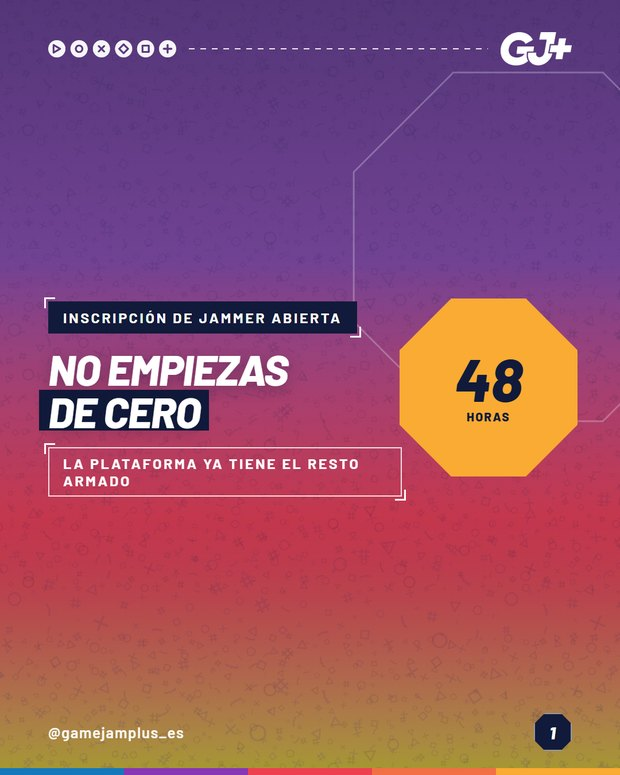
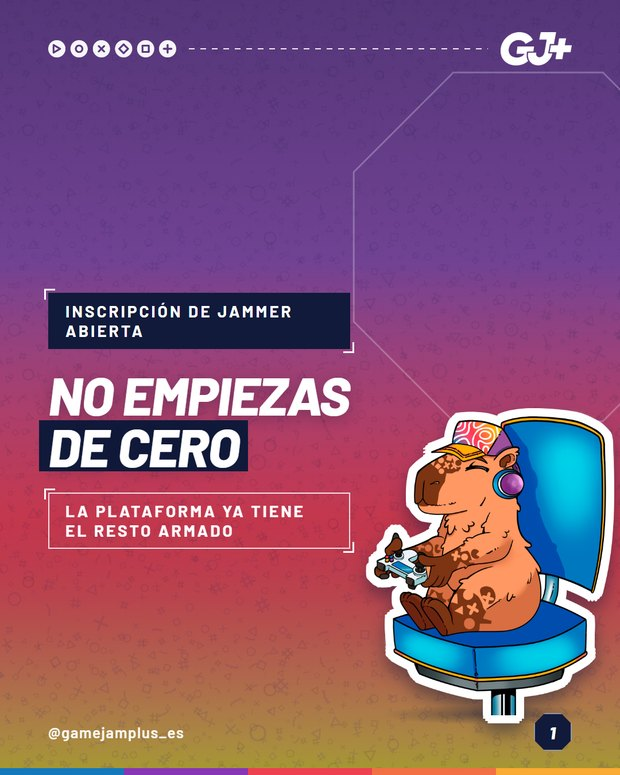
O25: capa com mascote, sem numeral
O 0 e o selo de 48 horas foram reprovados, e com razao: nenhum dos dois diz
nada neste post, que nao tem metrica propria pra capa. A capa passa a usar o
bloco "capa" com mascote, que e o padrao desde 16/set, com a manchete em cap
(cap longa no EN, onde "from scratch" quebra sozinho).

Changed region(s): [[0.0613, 0.3716, 1.0, 0.96]]

diff --git a/index.html b/index.html
@@ -293,7 +293,7 @@ dialog img{width:min(92vw,620px);max-height:92dvh;object-fit:contain;border-radi
 <article class="c" data-cat="01-conteudos-gj" data-lang="PT" data-busca="o25 - voce nao comeca do zero gj+" id="c230">
   <header><div><span class="tagcat">GJ+</span><span class="taglang PT">PT</span><h2>O25 - Voce nao comeca do zero</h2></div>
   <div class="nav"><button aria-label="Anterior" data-d="-1">&#8592;</button><button aria-label="Pr&#243;ximo" data-d="1">&#8594;</button><span class="cont">7</span></div></header>
-  <div class="strip"><figure><img src="img/01-conteudos-gj-pt-o25-o-que-a-sua-sede-recebe-pronta/slide_01.jpg?v=6" alt="O25 - Voce nao comeca do zero 1" width="620" height="775" loading="lazy" decoding="async"><figcaption>01</figcaption></figure><figure><img src="img/01-conteudos-gj-pt-o25-o-que-a-sua-sede-recebe-pronta/slide_02.jpg?v=6" alt="O25 - Voce nao comeca do zero 2" width="620" height="775" loading="lazy" decoding="async"><figcaption>02</figcaption></figure><figure><img src="img/01-conteudos-gj-pt-o25-o-que-a-sua-sede-recebe-pronta/slide_03.jpg?v=6" alt="O25 - Voce nao comeca do zero 3" width="620" height="775" loading="lazy" decoding="async"><figcaption>03</figcaption></figure><figure><img src="img/01-conteudos-gj-pt-o25-o-que-a-sua-sede-recebe-pronta/slide_04.jpg?v=6" alt="O25 - Voce nao comeca do zero 4" width="620" height="775" loading="lazy" decoding="async"><figcaption>04</figcaption></figure><figure><img src="img/01-conteudos-gj-pt-o25-o-que-a-sua-sede-recebe-pronta/slide_05.jpg?v=6" alt="O25 - Voce nao comeca do zero 5" width="620" height="775" loading="lazy" decoding="async"><figcaption>05</figcaption></figure><figure><img src="img/01-conteudos-gj-pt-o25-o-que-a-sua-sede-recebe-pronta/slide_06.jpg?v=6" alt="O25 - Voce nao comeca do zero 6" width="620" height="775" loading="lazy" decoding="async"><figcaption>06</figcaption></figure><figure><img src="img/01-conteudos-gj-pt-o25-o-que-a-sua-sede-recebe-pronta/slide_07.jpg?v=6" alt="O25 - Voce nao comeca do zero 7" width="620" height="775" loading="lazy" decoding="async"><figcaption>07</figcaption></figure></div></article>
+  <div class="strip"><figure><img src="img/01-conteudos-gj-pt-o25-o-que-a-sua-sede-recebe-pronta/slide_01.jpg?v=7" alt="O25 - Voce nao comeca do zero 1" width="620" height="775" loading="lazy" decoding="async"><figcaption>01</figcaption></figure><figure><img src="img/01-conteudos-gj-pt-o25-o-que-a-sua-sede-recebe-pronta/slide_02.jpg?v=7" alt="O25 - Voce nao comeca do zero 2" width="620" height="775" loading="lazy" decoding="async"><figcaption>02</figcaption></figure><figure><img src="img/01-conteudos-gj-pt-o25-o-que-a-sua-sede-recebe-pronta/slide_03.jpg?v=7" alt="O25 - Voce nao comeca do zero 3" width="620" height="775" loading="lazy" decoding="async"><figcaption>03</figcaption></figure><figure><img src="img/01-conteudos-gj-pt-o25-o-que-a-sua-sede-recebe-pronta/slide_04.jpg?v=7" alt="O25 - Voce nao comeca do zero 4" width="620" height="775" loading="lazy" decoding="async"><figcaption>04</figcaption></figure><figure><img src="img/01-conteudos-gj-pt-o25-o-que-a-sua-sede-recebe-pronta/slide_05.jpg?v=7" alt="O25 - Voce nao comeca do zero 5" width="620" height="775" loading="lazy" decoding="async"><figcaption>05</figcaption></figure><figure><img src="img/01-conteudos-gj-pt-o25-o-que-a-sua-sede-recebe-pronta/slide_06.jpg?v=7" alt="O25 - Voce nao comeca do zero 6" width="620" height="775" loading="lazy" decoding="async"><figcaption>06</figcaption></figure><figure><img src="img/01-conteudos-gj-pt-o25-o-que-a-sua-sede-recebe-pronta/slide_07.jpg?v=7" alt="O25 - Voce nao comeca do zero 7" width="620" height="775" loading="lazy" decoding="async"><figcaption>07</figcaption></figure></div></article>
 <article class="c" data-cat="01-conteudos-gj" data-lang="PT" data-busca="c04 - de 80 pessoas numa sala a 50 países gj+" id="c231">
   <header><div><span class="tagcat">GJ+</span><span class="taglang PT">PT</span><h2>C04 - De 80 pessoas numa sala a 50 países</h2></div>
   <div class="nav"><button aria-label="Anterior" data-d="-1">&#8592;</button><button aria-label="Pr&#243;ximo" data-d="1">&#8594;</button><span class="cont">7</span></div></header>
@@ -493,7 +493,7 @@ dialog img{width:min(92vw,620px);max-height:92dvh;object-fit:contain;border-radi
 <article class="c" data-cat="01-conteudos-gj" data-lang="EN" data-busca="o25 - you do not start from scratch gj+" id="c235">
   <header><div><span class="tagcat">GJ+</span><span class="taglang EN">EN</span><h2>O25 - You do not start from scratch</h2></div>
   <div class="nav"><button aria-label="Anterior" data-d="-1">&#8592;</button><button aria-label="Pr&#243;ximo" data-d="1">&#8594;</button><span class="cont">7</span></div></header>
-  <div class="strip"><figure><img src="img/01-conteudos-gj-en-o25-what-your-venue-gets-ready-made/slide_01.jpg?v=6" alt="O25 - You do not start from scratch 1" width="620" height="775" loading="lazy" decoding="async"><figcaption>01</figcaption></figure><figure><img src="img/01-conteudos-gj-en-o25-what-your-venue-gets-ready-made/slide_02.jpg?v=6" alt="O25 - You do not start from scratch 2" width="620" height="775" loading="lazy" decoding="async"><figcaption>02</figcaption></figure><figure><img src="img/01-conteudos-gj-en-o25-what-your-venue-gets-ready-made/slide_03.jpg?v=6" alt="O25 - You do not start from scratch 3" width="620" height="775" loading="lazy" decoding="async"><figcaption>03</figcaption></figure><figure><img src="img/01-conteudos-gj-en-o25-what-your-venue-gets-ready-made/slide_04.jpg?v=6" alt="O25 - You do not start from scratch 4" width="620" height="775" loading="lazy" decoding="async"><figcaption>04</figcaption></figure><figure><img src="img/01-conteudos-gj-en-o25-what-your-venue-gets-ready-made/slide_05.jpg?v=6" alt="O25 - You do not start from scratch 5" width="620" height="775" loading="lazy" decoding="async"><figcaption>05</figcaption></figure><figure><img src="img/01-conteudos-gj-en-o25-what-your-venue-gets-ready-made/slide_06.jpg?v=6" alt="O25 - You do not start from scratch 6" width="620" height="775" loading="lazy" decoding="async"><figcaption>06</figcaption></figure><figure><img src="img/01-conteudos-gj-en-o25-what-your-venue-gets-ready-made/slide_07.jpg?v=6" alt="O25 - You do not start from scratch 7" width="620" height="775" loading="lazy" decoding="async"><figcaption>07</figcaption></figure></div></article>
+  <div class="strip"><figure><img src="img/01-conteudos-gj-en-o25-what-your-venue-gets-ready-made/slide_01.jpg?v=7" alt="O25 - You do not start from scratch 1" width="620" height="775" loading="lazy" decoding="async"><figcaption>01</figcaption></figure><figure><img src="img/01-conteudos-gj-en-o25-what-your-venue-gets-ready-made/slide_02.jpg?v=7" alt="O25 - You do not start from scratch 2" width="620" height="775" loading="lazy" decoding="async"><figcaption>02</figcaption></figure><figure><img src="img/01-conteudos-gj-en-o25-what-your-venue-gets-ready-made/slide_03.jpg?v=7" alt="O25 - You do not start from scratch 3" width="620" height="775" loading="lazy" decoding="async"><figcaption>03</figcaption></figure><figure><img src="img/01-conteudos-gj-en-o25-what-your-venue-gets-ready-made/slide_04.jpg?v=7" alt="O25 - You do not start from scratch 4" width="620" height="775" loading="lazy" decoding="async"><figcaption>04</figcaption></figure><figure><img src="img/01-conteudos-gj-en-o25-what-your-venue-gets-ready-made/slide_05.jpg?v=7" alt="O25 - You do not start from scratch 5" width="620" height="775" loading="lazy" decoding="async"><figcaption>05</figcaption></figure><figure><img src="img/01-conteudos-gj-en-o25-what-your-venue-gets-ready-made/slide_06.jpg?v=7" alt="O25 - You do not start from scratch 6" width="620" height="775" loading="lazy" decoding="async"><figcaption>06</figcaption></figure><figure><img src="img/01-conteudos-gj-en-o25-what-your-venue-gets-ready-made/slide_07.jpg?v=7" alt="O25 - You do not start from scratch 7" width="620" height="775" loading="lazy" decoding="async"><figcaption>07</figcaption></figure></div></article>
 <article class="c" data-cat="01-conteudos-gj" data-lang="EN" data-busca="c04 - from 80 people in a room to 50 countries gj+" id="c236">
   <header><div><span class="tagcat">GJ+</span><span class="taglang EN">EN</span><h2>C04 - From 80 people in a room to 50 countries</h2></div>
   <div class="nav"><button aria-label="Anterior" data-d="-1">&#8592;</button><button aria-label="Pr&#243;ximo" data-d="1">&#8594;</button><span class="cont">7</span></div></header>
@@ -561,7 +561,7 @@ dialog img{width:min(92vw,620px);max-height:92dvh;object-fit:contain;border-radi
 <article class="c" data-cat="01-conteudos-gj" data-lang="ES" data-busca="o25 - no empiezas de cero gj+" id="c240">
   <header><div><span class="tagcat">GJ+</span><span class="taglang ES">ES</span><h2>O25 - No empiezas de cero</h2></div>
   <div class="nav"><button aria-label="Anterior" data-d="-1">&#8592;</button><button aria-label="Pr&#243;ximo" data-d="1">&#8594;</button><span class="cont">7</span></div></header>
-  <div class="strip"><figure><img src="img/01-conteudos-gj-es-o25-lo-que-tu-sede-recibe-ya-listo/slide_01.jpg?v=6" alt="O25 - No empiezas de cero 1" width="620" height="775" loading="lazy" decoding="async"><figcaption>01</figcaption></figure><figure><img src="img/01-conteudos-gj-es-o25-lo-que-tu-sede-recibe-ya-listo/slide_02.jpg?v=6" alt="O25 - No empiezas de cero 2" width="620" height="775" loading="lazy" decoding="async"><figcaption>02</figcaption></figure><figure><img src="img/01-conteudos-gj-es-o25-lo-que-tu-sede-recibe-ya-listo/slide_03.jpg?v=6" alt="O25 - No empiezas de cero 3" width="620" height="775" loading="lazy" decoding="async"><figcaption>03</figcaption></figure><figure><img src="img/01-conteudos-gj-es-o25-lo-que-tu-sede-recibe-ya-listo/slide_04.jpg?v=6" alt="O25 - No empiezas de cero 4" width="620" height="775" loading="lazy" decoding="async"><figcaption>04</figcaption></figure><figure><img src="img/01-conteudos-gj-es-o25-lo-que-tu-sede-recibe-ya-listo/slide_05.jpg?v=6" alt="O25 - No empiezas de cero 5" width="620" height="775" loading="lazy" decoding="async"><figcaption>05</figcaption></figure><figure><img src="img/01-conteudos-gj-es-o25-lo-que-tu-sede-recibe-ya-listo/slide_06.jpg?v=6" alt="O25 - No empiezas de cero 6" width="620" height="775" loading="lazy" decoding="async"><figcaption>06</figcaption></figure><figure><img src="img/01-conteudos-gj-es-o25-lo-que-tu-sede-recibe-ya-listo/slide_07.jpg?v=6" alt="O25 - No empiezas de cero 7" width="620" height="775" loading="lazy" decoding="async"><figcaption>07</figcaption></figure></div></article>
+  <div class="strip"><figure><img src="img/01-conteudos-gj-es-o25-lo-que-tu-sede-recibe-ya-listo/slide_01.jpg?v=7" alt="O25 - No empiezas de cero 1" width="620" height="775" loading="lazy" decoding="async"><figcaption>01</figcaption></figure><figure><img src="img/01-conteudos-gj-es-o25-lo-que-tu-sede-recibe-ya-listo/slide_02.jpg?v=7" alt="O25 - No empiezas de cero 2" width="620" height="775" loading="lazy" decoding="async"><figcaption>02</figcaption></figure><figure><img src="img/01-conteudos-gj-es-o25-lo-que-tu-sede-recibe-ya-listo/slide_03.jpg?v=7" alt="O25 - No empiezas de cero 3" width="620" height="775" loading="lazy" decoding="async"><figcaption>03</figcaption></figure><figure><img src="img/01-conteudos-gj-es-o25-lo-que-tu-sede-recibe-ya-listo/slide_04.jpg?v=7" alt="O25 - No empiezas de cero 4" width="620" height="775" loading="lazy" decoding="async"><figcaption>04</figcaption></figure><figure><img src="img/01-conteudos-gj-es-o25-lo-que-tu-sede-recibe-ya-listo/slide_05.jpg?v=7" alt="O25 - No empiezas de cero 5" width="620" height="775" loading="lazy" decoding="async"><figcaption>05</figcaption></figure><figure><img src="img/01-conteudos-gj-es-o25-lo-que-tu-sede-recibe-ya-listo/slide_06.jpg?v=7" alt="O25 - No empiezas de cero 6" width="620" height="775" loading="lazy" decoding="async"><figcaption>06</figcaption></figure><figure><img src="img/01-conteudos-gj-es-o25-lo-que-tu-sede-recibe-ya-listo/slide_07.jpg?v=7" alt="O25 - No empiezas de cero 7" width="620" height="775" loading="lazy" decoding="async"><figcaption>07</figcaption></figure></div></article>
 <article class="c" data-cat="01-conteudos-gj" data-lang="ES" data-busca="c04 - de 80 personas a 50 países gj+" id="c241">
   <header><div><span class="tagcat">GJ+</span><span class="taglang ES">ES</span><h2>C04 - De 80 personas a 50 países</h2></div>
   <div class="nav"><button aria-label="Anterior" data-d="-1">&#8592;</button><button aria-label="Pr&#243;ximo" data-d="1">&#8594;</button><span class="cont">7</span></div></header>

diff --git a/p/o25-en/index.html b/p/o25-en/index.html
@@ -10,7 +10,7 @@
 <meta property="og:site_name" content="GameJamPlus · carrosséis">
 <meta property="og:title" content="O25 - You do not start from scratch">
 <meta property="og:description" content="Jammer sign-up is open and the path is already built. It is free, it happens on the official GameJamPlus site, and that is where you pick your venue bet...">
-<meta property="og:image" content="https://gamejamplus-carrosseis.vercel.app/img/01-conteudos-gj-en-o25-what-your-venue-gets-ready-made/slide_01.jpg?v=6">
+<meta property="og:image" content="https://gamejamplus-carrosseis.vercel.app/img/01-conteudos-gj-en-o25-what-your-venue-gets-ready-made/slide_01.jpg?v=7">
 <meta property="og:url" content="https://gamejamplus-carrosseis.vercel.app/p/o25-en/">
 <meta name="twitter:card" content="summary_large_image">
 <link rel="preconnect" href="https://fonts.googleapis.com">
@@ -68,7 +68,7 @@ h1{font-size:23px;font-weight:800;letter-spacing:-.5px;margin:8px 0 4px;line-hei
   <p class="sub">7 slides</p>
 
   <div class="palco">
-    <img id="sl" src="../../img/01-conteudos-gj-en-o25-what-your-venue-gets-ready-made/slide_01.jpg?v=6" alt="O25 - You do not start from scratch 1">
+    <img id="sl" src="../../img/01-conteudos-gj-en-o25-what-your-venue-gets-ready-made/slide_01.jpg?v=7" alt="O25 - You do not start from scratch 1">
     <button class="seta e" type="button" aria-label="Anterior">←</button>
     <button class="seta d" type="button" aria-label="Próximo">→</button>
     <span class="cont"><b id="n">1</b>/7</span>
@@ -88,7 +88,7 @@ h1{font-size:23px;font-weight:800;letter-spacing:-.5px;margin:8px 0 4px;line-hei
   <p class="rod">Uso interno, para revisão.</p>
 </div>
 <script>
-const S=["../../img/01-conteudos-gj-en-o25-what-your-venue-gets-ready-made/slide_01.jpg?v=6","../../img/01-conteudos-gj-en-o25-what-your-venue-gets-ready-made/slide_02.jpg?v=6","../../img/01-conteudos-gj-en-o25-what-your-venue-gets-ready-made/slide_03.jpg?v=6","../../img/01-conteudos-gj-en-o25-what-your-venue-gets-ready-made/slide_04.jpg?v=6","../../img/01-conteudos-gj-en-o25-what-your-venue-gets-ready-made/slide_05.jpg?v=6","../../img/01-conteudos-gj-en-o25-what-your-venue-gets-ready-made/slide_06.jpg?v=6","../../img/01-conteudos-gj-en-o25-what-your-venue-gets-ready-made/slide_07.jpg?v=6"];
+const S=["../../img/01-conteudos-gj-en-o25-what-your-venue-gets-ready-made/slide_01.jpg?v=7","../../img/01-conteudos-gj-en-o25-what-your-venue-gets-ready-made/slide_02.jpg?v=7","../../img/01-conteudos-gj-en-o25-what-your-venue-gets-ready-made/slide_03.jpg?v=7","../../img/01-conteudos-gj-en-o25-what-your-venue-gets-ready-made/slide_04.jpg?v=7","../../img/01-conteudos-gj-en-o25-what-your-venue-gets-ready-made/slide_05.jpg?v=7","../../img/01-conteudos-gj-en-o25-what-your-venue-gets-ready-made/slide_06.jpg?v=7","../../img/01-conteudos-gj-en-o25-what-your-venue-gets-ready-made/slide_07.jpg?v=7"];
 const LEGTXT="Jammer sign-up is open and the path is already built. It is free, it happens on the official GameJamPlus site, and that is where you pick your venue between on site, hybrid and online. Then you enter Hero Hub with email and password, the platform of this edition. There is a handbook explaining what to hand in and how each stage works, teams are 3 to 6 people, and most of them meet at the venue on the day. If your city has no venue yet, the online one takes you through Discord.\n\nFrom beginner to senior everyone fits, because half the score is the pitch. And organizers use the same platform for venue sign-up and submission, with a toolbox, a translated marketing kit and direct support. Drop the city you are joining from.\n\nJammer sign-up is already open in the link in bio. It is free, and you pick your venue right there.\n\n#GameJamPlus #GameJam #GameDev #IndieDev #IndieGames #GameDevCommunity";
 let i=0;
 const img=document.getElementById('sl'),nn=document.getElementById('n'),dots=document.getElementById('dots');

diff --git a/p/o25-pt/index.html b/p/o25-pt/index.html
@@ -10,7 +10,7 @@
 <meta property="og:site_name" content="GameJamPlus · carrosséis">
 <meta property="og:title" content="O25 - Voce nao comeca do zero">
 <meta property="og:description" content="A inscrição de jammer abriu e o caminho já está montado. Ela é grátis, sai pelo site oficial da GameJamPlus, e é ali que você escolhe a sua sede entre p...">
-<meta property="og:image" content="https://gamejamplus-carrosseis.vercel.app/img/01-conteudos-gj-pt-o25-o-que-a-sua-sede-recebe-pronta/slide_01.jpg?v=6">
+<meta property="og:image" content="https://gamejamplus-carrosseis.vercel.app/img/01-conteudos-gj-pt-o25-o-que-a-sua-sede-recebe-pronta/slide_01.jpg?v=7">
 <meta property="og:url" content="https://gamejamplus-carrosseis.vercel.app/p/o25-pt/">
 <meta name="twitter:card" content="summary_large_image">
 <link rel="preconnect" href="https://fonts.googleapis.com">
@@ -68,7 +68,7 @@ h1{font-size:23px;font-weight:800;letter-spacing:-.5px;margin:8px 0 4px;line-hei
   <p class="sub">7 slides</p>
 
   <div class="palco">
-    <img id="sl" src="../../img/01-conteudos-gj-pt-o25-o-que-a-sua-sede-recebe-pronta/slide_01.jpg?v=6" alt="O25 - Voce nao comeca do zero 1">
+    <img id="sl" src="../../img/01-conteudos-gj-pt-o25-o-que-a-sua-sede-recebe-pronta/slide_01.jpg?v=7" alt="O25 - Voce nao comeca do zero 1">
     <button class="seta e" type="button" aria-label="Anterior">←</button>
     <button class="seta d" type="button" aria-label="Próximo">→</button>
     <span class="cont"><b id="n">1</b>/7</span>
@@ -88,7 +88,7 @@ h1{font-size:23px;font-weight:800;letter-spacing:-.5px;margin:8px 0 4px;line-hei
   <p class="rod">Uso interno, para revisão.</p>
 </div>
 <script>
-const S=["../../img/01-conteudos-gj-pt-o25-o-que-a-sua-sede-recebe-pronta/slide_01.jpg?v=6","../../img/01-conteudos-gj-pt-o25-o-que-a-sua-sede-recebe-pronta/slide_02.jpg?v=6","../../img/01-conteudos-gj-pt-o25-o-que-a-sua-sede-recebe-pronta/slide_03.jpg?v=6","../../img/01-conteudos-gj-pt-o25-o-que-a-sua-sede-recebe-pronta/slide_04.jpg?v=6","../../img/01-conteudos-gj-pt-o25-o-que-a-sua-sede-recebe-pronta/slide_05.jpg?v=6","../../img/01-conteudos-gj-pt-o25-o-que-a-sua-sede-recebe-pronta/slide_06.jpg?v=6","../../img/01-conteudos-gj-pt-o25-o-que-a-sua-sede-recebe-pronta/slide_07.jpg?v=6"];
+const S=["../../img/01-conteudos-gj-pt-o25-o-que-a-sua-sede-recebe-pronta/slide_01.jpg?v=7","../../img/01-conteudos-gj-pt-o25-o-que-a-sua-sede-recebe-pronta/slide_02.jpg?v=7","../../img/01-conteudos-gj-pt-o25-o-que-a-sua-sede-recebe-pronta/slide_03.jpg?v=7","../../img/01-conteudos-gj-pt-o25-o-que-a-sua-sede-recebe-pronta/slide_04.jpg?v=7","../../img/01-conteudos-gj-pt-o25-o-que-a-sua-sede-recebe-pronta/slide_05.jpg?v=7","../../img/01-conteudos-gj-pt-o25-o-que-a-sua-sede-recebe-pronta/slide_06.jpg?v=7","../../img/01-conteudos-gj-pt-o25-o-que-a-sua-sede-recebe-pronta/slide_07.jpg?v=7"];
 const LEGTXT="A inscrição de jammer abriu e o caminho já está montado. Ela é grátis, sai pelo site oficial da GameJamPlus, e é ali que você escolhe a sua sede entre presencial, híbrida e online. Depois você entra no Hero Hub com e-mail e senha, que é a plataforma da edição. Tem manual explicando o que entregar e como funciona cada etapa, o time é de 3 a 6 pessoas e a maioria se encontra na sede no dia. Se a sua cidade ainda não tem sede, a online recebe você pelo Discord.\n\nDe iniciante a sênior todos cabem, porque metade da nota é o pitch. E quem organiza usa a mesma plataforma pra inscrição e submissão da sede, com toolbox, kit de marketing traduzido e suporte direto. Comenta de qual cidade você vai entrar.\n\nAs inscrições de jammer já estão abertas no link da bio. A inscrição é grátis e você escolhe a sua sede na hora.\n\n#GameJamPlus #GameJam #GameDev #IndieDev #IndieGames #GameDevCommunity";
 let i=0;
 const img=document.getElementById('sl'),nn=document.getElementById('n'),dots=document.getElementById('dots');

diff --git a/p/o25-es/index.html b/p/o25-es/index.html
@@ -10,7 +10,7 @@
 <meta property="og:site_name" content="GameJamPlus · carrosséis">
 <meta property="og:title" content="O25 - No empiezas de cero">
 <meta property="og:description" content="La inscripción de jammer abrió y el camino ya está armado. Es gratis, se hace en el sitio oficial de GameJamPlus, y ahí mismo eliges tu sede entre prese...">
-<meta property="og:image" content="https://gamejamplus-carrosseis.vercel.app/img/01-conteudos-gj-es-o25-lo-que-tu-sede-recibe-ya-listo/slide_01.jpg?v=6">
+<meta property="og:image" content="https://gamejamplus-carrosseis.vercel.app/img/01-conteudos-gj-es-o25-lo-que-tu-sede-recibe-ya-listo/slide_01.jpg?v=7">
 <meta property="og:url" content="https://gamejamplus-carrosseis.vercel.app/p/o25-es/">
 <meta name="twitter:card" content="summary_large_image">
 <link rel="preconnect" href="https://fonts.googleapis.com">
@@ -68,7 +68,7 @@ h1{font-size:23px;font-weight:800;letter-spacing:-.5px;margin:8px 0 4px;line-hei
   <p class="sub">7 slides</p>
 
   <div class="palco">
-    <img id="sl" src="../../img/01-conteudos-gj-es-o25-lo-que-tu-sede-recibe-ya-listo/slide_01.jpg?v=6" alt="O25 - No empiezas de cero 1">
+    <img id="sl" src="../../img/01-conteudos-gj-es-o25-lo-que-tu-sede-recibe-ya-listo/slide_01.jpg?v=7" alt="O25 - No empiezas de cero 1">
     <button class="seta e" type="button" aria-label="Anterior">←</button>
     <button class="seta d" type="button" aria-label="Próximo">→</button>
     <span class="cont"><b id="n">1</b>/7</span>
@@ -88,7 +88,7 @@ h1{font-size:23px;font-weight:800;letter-spacing:-.5px;margin:8px 0 4px;line-hei
   <p class="rod">Uso interno, para revisão.</p>
 </div>
 <script>
-const S=["../../img/01-conteudos-gj-es-o25-lo-que-tu-sede-recibe-ya-listo/slide_01.jpg?v=6","../../img/01-conteudos-gj-es-o25-lo-que-tu-sede-recibe-ya-listo/slide_02.jpg?v=6","../../img/01-conteudos-gj-es-o25-lo-que-tu-sede-recibe-ya-listo/slide_03.jpg?v=6","../../img/01-conteudos-gj-es-o25-lo-que-tu-sede-recibe-ya-listo/slide_04.jpg?v=6","../../img/01-conteudos-gj-es-o25-lo-que-tu-sede-recibe-ya-listo/slide_05.jpg?v=6","../../img/01-conteudos-gj-es-o25-lo-que-tu-sede-recibe-ya-listo/slide_06.jpg?v=6","../../img/01-conteudos-gj-es-o25-lo-que-tu-sede-recibe-ya-listo/slide_07.jpg?v=6"];
+const S=["../../img/01-conteudos-gj-es-o25-lo-que-tu-sede-recibe-ya-listo/slide_01.jpg?v=7","../../img/01-conteudos-gj-es-o25-lo-que-tu-sede-recibe-ya-listo/slide_02.jpg?v=7","../../img/01-conteudos-gj-es-o25-lo-que-tu-sede-recibe-ya-listo/slide_03.jpg?v=7","../../img/01-conteudos-gj-es-o25-lo-que-tu-sede-recibe-ya-listo/slide_04.jpg?v=7","../../img/01-conteudos-gj-es-o25-lo-que-tu-sede-recibe-ya-listo/slide_05.jpg?v=7","../../img/01-conteudos-gj-es-o25-lo-que-tu-sede-recibe-ya-listo/slide_06.jpg?v=7","../../img/01-conteudos-gj-es-o25-lo-que-tu-sede-recibe-ya-listo/slide_07.jpg?v=7"];
 const LEGTXT="La inscripción de jammer abrió y el camino ya está armado. Es gratis, se hace en el sitio oficial de GameJamPlus, y ahí mismo eliges tu sede entre presencial, híbrida y online. Después entras a Hero Hub con correo y contraseña, la plataforma de la edición. Hay manual que explica qué entregar y cómo funciona cada etapa, el equipo es de 3 a 6 personas y la mayoría se conoce en la sede el mismo día. Si tu ciudad todavía no tiene sede, la online te recibe por Discord.\n\nDe principiante a sénior entran todos, porque la mitad del puntaje es el pitch. Y quien organiza usa la misma plataforma para la inscripción y la entrega de la sede, con toolbox, kit de marketing traducido y soporte directo. Cuenta desde qué ciudad vas a entrar.\n\nLa inscripción de jammer ya está abierta en el link de la bio. Es gratis y eliges tu sede ahí mismo.\n\n#GameJamPlus #GameJam #GameDev #IndieDev #IndieGames #GameDevCommunity";
 let i=0;
 const img=document.getElementById('sl'),nn=document.getElementById('n'),dots=document.getElementById('dots');
